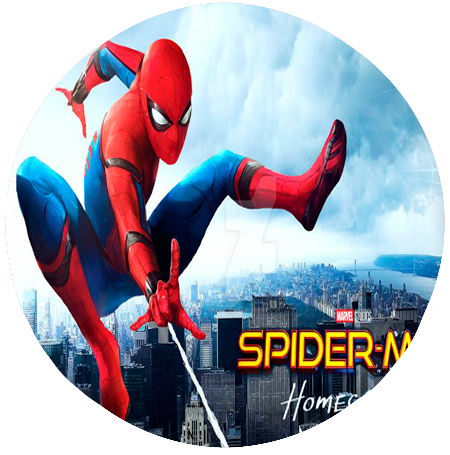
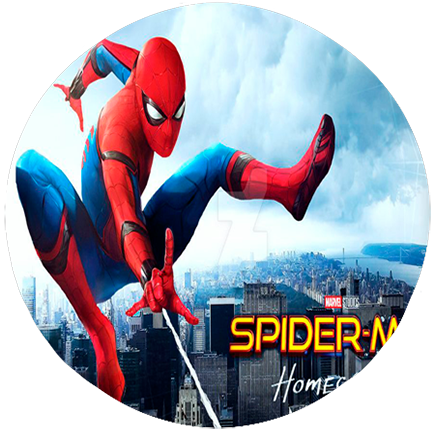
Add new full border center

diff --git a/style.css b/style.css
@@ -17,12 +17,11 @@
 #bigImageBorder {
     width: 100%;
     height: 100%;
-    animation: rotate 1s infinite;
 }
 
 #bigImagePoster {
-    top: 0px;
-    left: 0px;
+    top: 8px;
+    left: 8px;
     position: absolute;
 }
 
@@ -46,10 +45,13 @@
 }
 
 @keyframes rotate {
-    from {
+    0% {
         transform: rotate(0deg);
     }
-    to {
+    50% {
+        transform: rotate(180deg);
+    }
+    100% {
         transform: rotate(360deg);
     }
 }

diff --git a/Index.html b/Index.html
@@ -13,7 +13,7 @@
             <p>Spider-Man HomeComing</p>
         </div>
         <div class="centerInfo">
-            <img src="./Images/khungphim.png" alt="BigPoster" id="bigImageBorder">
+            <img src="./Images/poster_border.png" alt="BigPoster" id="bigImageBorder">
             <img src="./Images/poster2.png" alt="portal" id="bigImagePoster">
             <img src="./Images/portal.png" alt="portal" id="bigImagePortal">
         </div>
